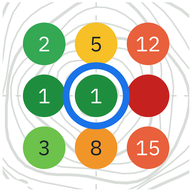
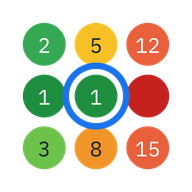
App 1.6.4: icona con sfondo trasparente
Claude-Session: https://claude.ai/code/session_01DCHnG7iKefnJzXE8xmSRnU

diff --git a/stile.css b/stile.css
@@ -26,7 +26,7 @@ body{padding-top:var(--top-h);min-height:100vh;min-height:100dvh}
 .top{position:fixed;top:0;left:0;right:0;z-index:5;height:var(--top-h);display:flex;align-items:center;justify-content:space-between;
   padding:env(safe-area-inset-top,0px) 16px 0;background:var(--ink);color:#fff}
 .brand{display:flex;align-items:center;gap:10px;font-family:PlexCond;font-size:19px;font-weight:700;font-display:swap}
-.logo{width:24px;height:24px;border-radius:6px;display:block}
+.logo{width:26px;height:26px;display:block}
 .sync{display:flex;align-items:center;gap:6px;background:#2a3840;border:0;border-radius:20px;padding:5px 11px;color:#dfe5e3;font-size:12px}
 .sync .dot{width:8px;height:8px;border-radius:50%;background:var(--no)}
 .sync.ok .dot{background:#5fd39b}.sync.att .dot{background:var(--mid)}.sync.err .dot{background:#ff7a5c}

diff --git a/index.html b/index.html
@@ -10,13 +10,13 @@
 <meta name="apple-mobile-web-app-title" content="Visibilità">
 <title>Visibilità locale</title>
 <link rel="manifest" href="manifest.webmanifest">
-<link rel="icon" href="icon-192.png?v=2">
-<link rel="apple-touch-icon" href="apple-touch-icon.png">
+<link rel="icon" href="icon-192.png?v=3">
+<link rel="apple-touch-icon" href="apple-touch-icon.png?v=3">
 <link rel="stylesheet" href="stile.css">
 </head>
 <body>
 <header class="top">
-  <div class="brand"><img class="logo" src="icon-192.png?v=2" alt=""><span id="titolo">Oggi</span></div>
+  <div class="brand"><img class="logo" src="icon-192.png?v=3" alt=""><span id="titolo">Oggi</span></div>
   <button id="sync" class="sync" title="Sincronizza"><span class="dot"></span><span id="syncTxt">Locale</span></button>
 </header>
 <main id="vista" class="vista"></main>
